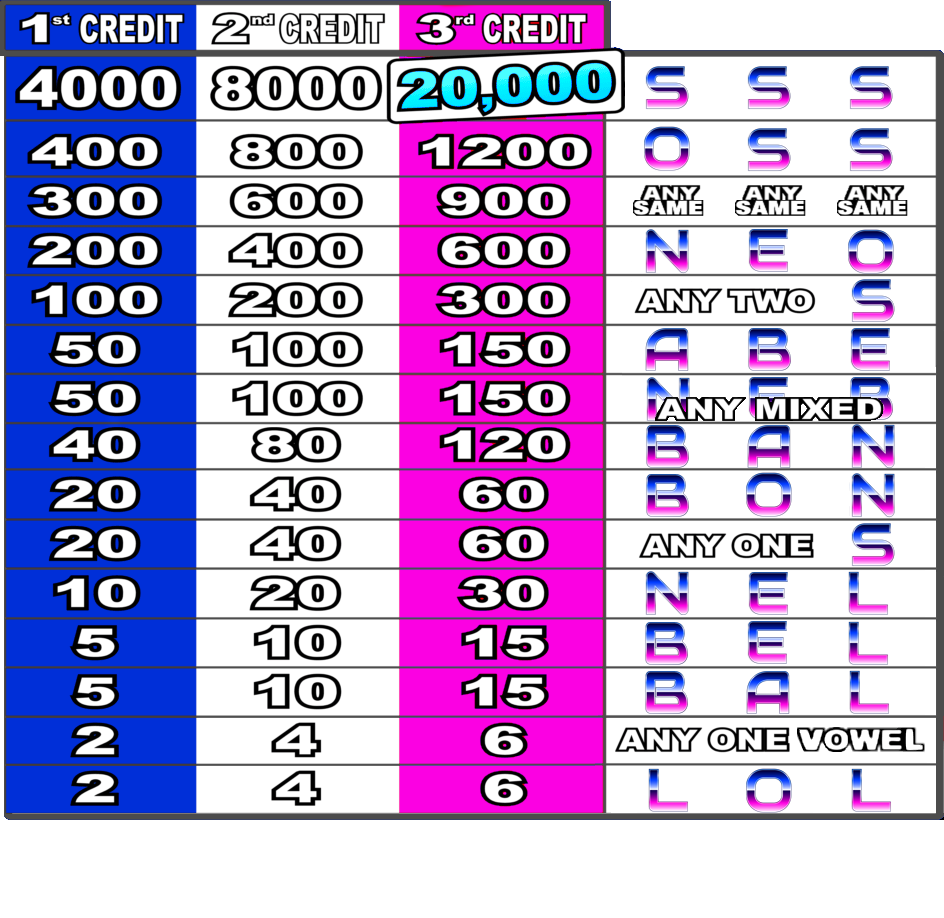
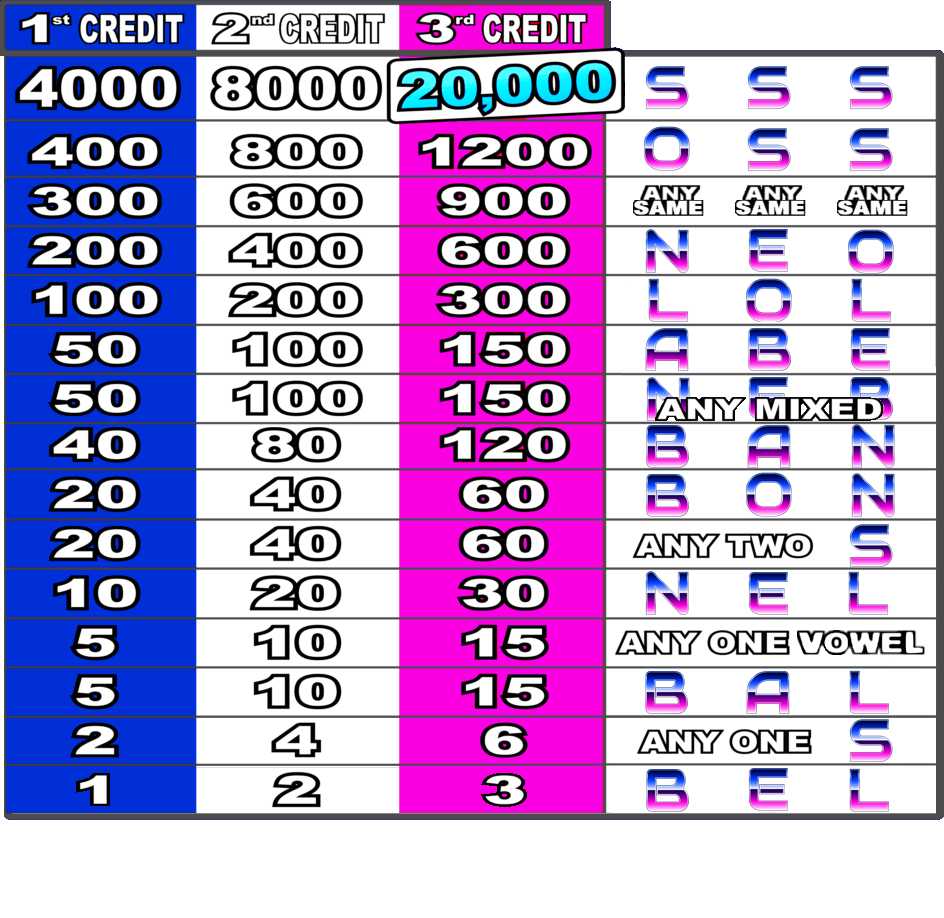
Balancement des récompences en mode neo
- Des combinaison a haut gains tombait trop souvent en mode néo, cela a été reéquilibré

diff --git a/src/GLOBAL_Functions.c b/src/GLOBAL_Functions.c
@@ -120,26 +120,26 @@ void tirage(int * Gains, int Mise, char TabDeck[], int SlotIndex[], int WinRewar
         // "Any" combination
         if ((SlotIndex[0] == SlotIndex[1]) && (SlotIndex[0] == SlotIndex[2])){ // Any same
             *Gains = WinRewards[9] * Mise;
-        } else if (((nbOfOcurences(SlotIndex, 6, 3) == 1) && (nbOfOcurences(SlotIndex, 1, 3) == 0) && (nbOfOcurences(SlotIndex, 4, 3) == 0)) || ((nbOfOcurences(SlotIndex, 1, 3) == 1) && (nbOfOcurences(SlotIndex, 6, 3) == 0) && (nbOfOcurences(SlotIndex, 4, 3) == 0)) || ((nbOfOcurences(SlotIndex, 4, 3) == 1) && (nbOfOcurences(SlotIndex, 1, 3) == 0) && (nbOfOcurences(SlotIndex, 6, 3) == 0))){ // Any one vowel
-            *Gains = WinRewards[1] * Mise;
-        } // 6 1 4 
+        }
         
         // Half specific combination
         if (intUni(SlotIndex, (int[3]){3, 1, 0}, 3)){ // Any mixed NEB
             *Gains = WinRewards[6] * Mise;
         } else if (nbOfOcurences(SlotIndex, 5, 3) == 2){ // Any two S
-            *Gains = WinRewards[7] * Mise;
-        } else if (nbOfOcurences(SlotIndex, 5, 3) == 1){ // Any one S
             *Gains = WinRewards[4] * Mise;
+        } else if (((nbOfOcurences(SlotIndex, 6, 3) == 1) && (nbOfOcurences(SlotIndex, 1, 3) == 0) && (nbOfOcurences(SlotIndex, 4, 3) == 0)) || ((nbOfOcurences(SlotIndex, 1, 3) == 1) && (nbOfOcurences(SlotIndex, 6, 3) == 0) && (nbOfOcurences(SlotIndex, 4, 3) == 0)) || ((nbOfOcurences(SlotIndex, 4, 3) == 1) && (nbOfOcurences(SlotIndex, 1, 3) == 0) && (nbOfOcurences(SlotIndex, 6, 3) == 0))){ // Any one vowel
+            *Gains = WinRewards[2] * Mise;
+        } else if (nbOfOcurences(SlotIndex, 5, 3) == 1){ // Any one S
+            *Gains = WinRewards[1] * Mise;
         }
 
         // Specific combinaition
         if (intcmp(SlotIndex, (int[3]){2, 4, 2}, 3)){ // LOL
-            *Gains = WinRewards[1] * Mise;
+            *Gains = WinRewards[7] * Mise;
         } else if (intcmp(SlotIndex, (int[3]){0, 6, 2}, 3)){ // Bal
             *Gains = WinRewards[2] * Mise;
         } else if (intcmp(SlotIndex, (int[3]){0, 1, 2}, 3)){ // Bel
-            *Gains = WinRewards[2] * Mise;
+            *Gains = WinRewards[0] * Mise;
         } else if (intcmp(SlotIndex, (int[3]){3, 1, 2}, 3)){ // Nel (Bleach)
             *Gains = WinRewards[3] * Mise;
         } else if (intcmp(SlotIndex, (int[3]){0, 4, 3}, 3)){ // Bon
